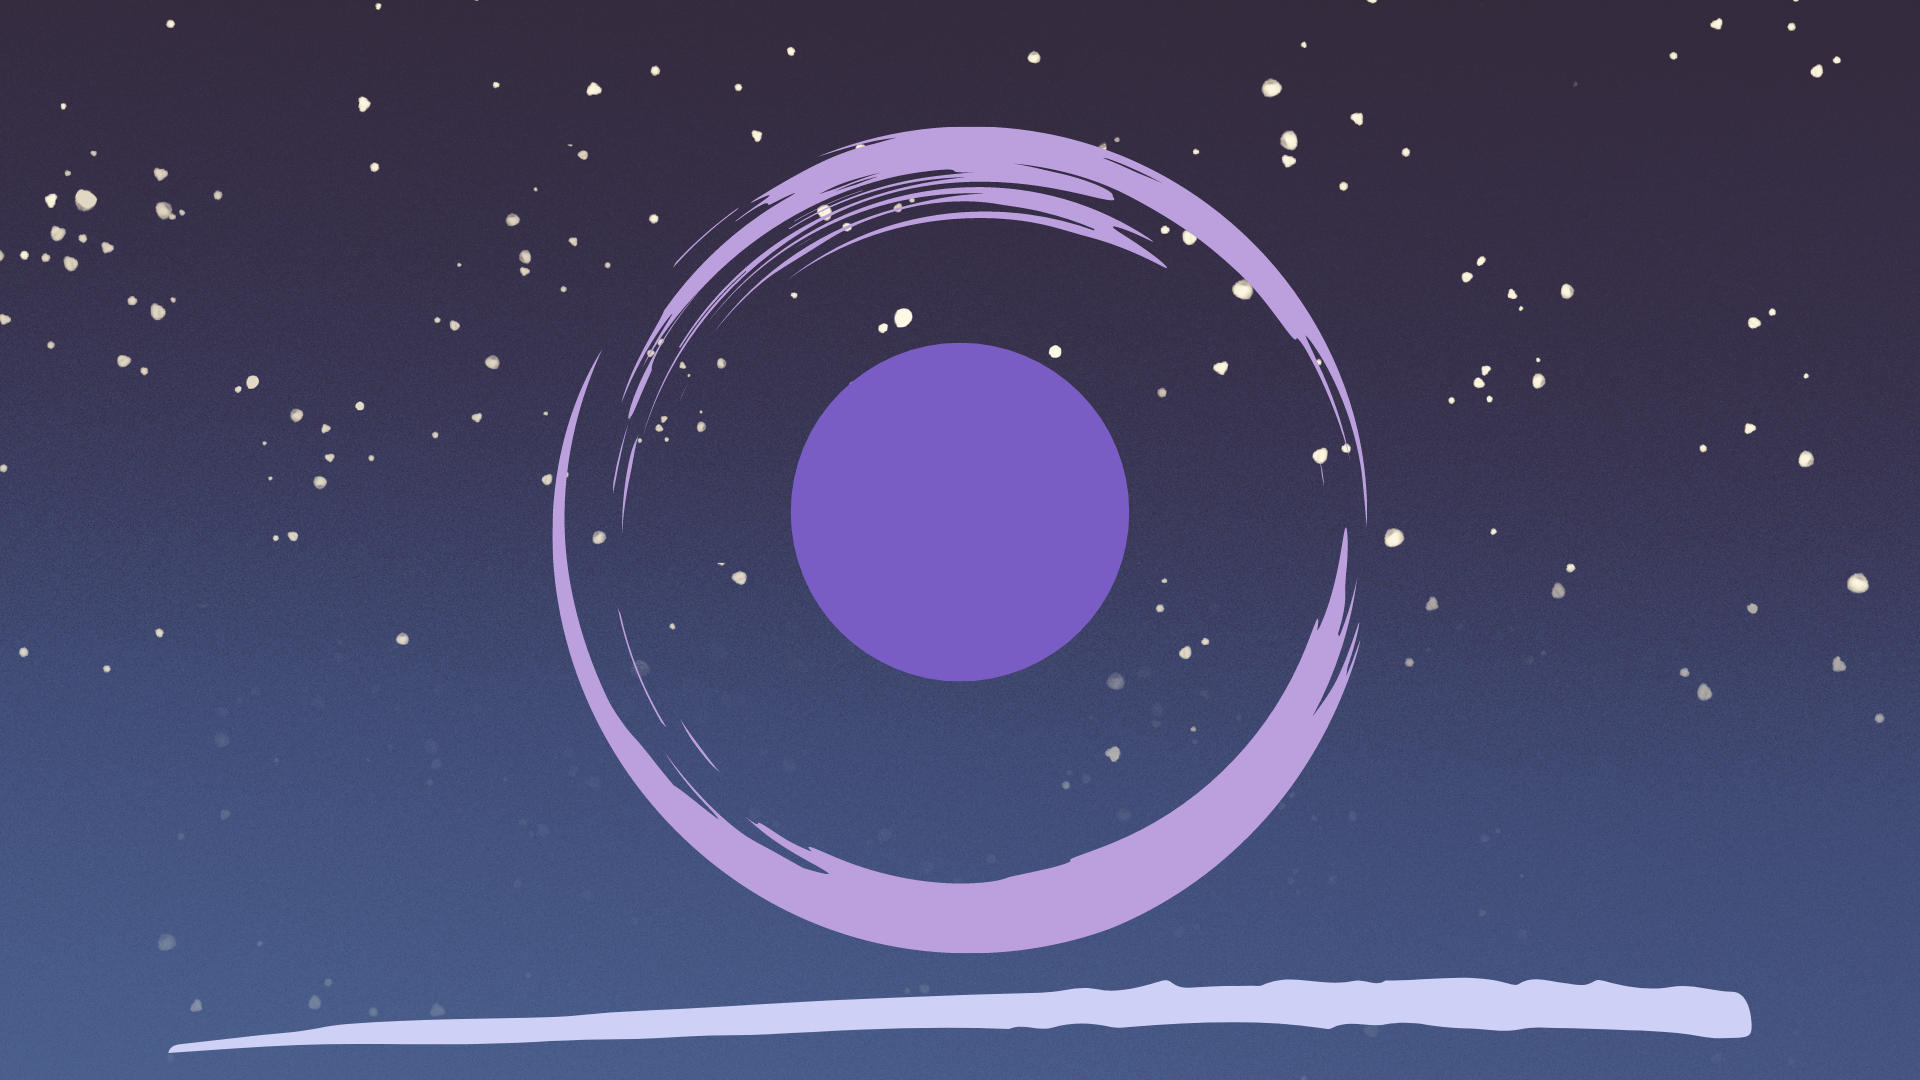
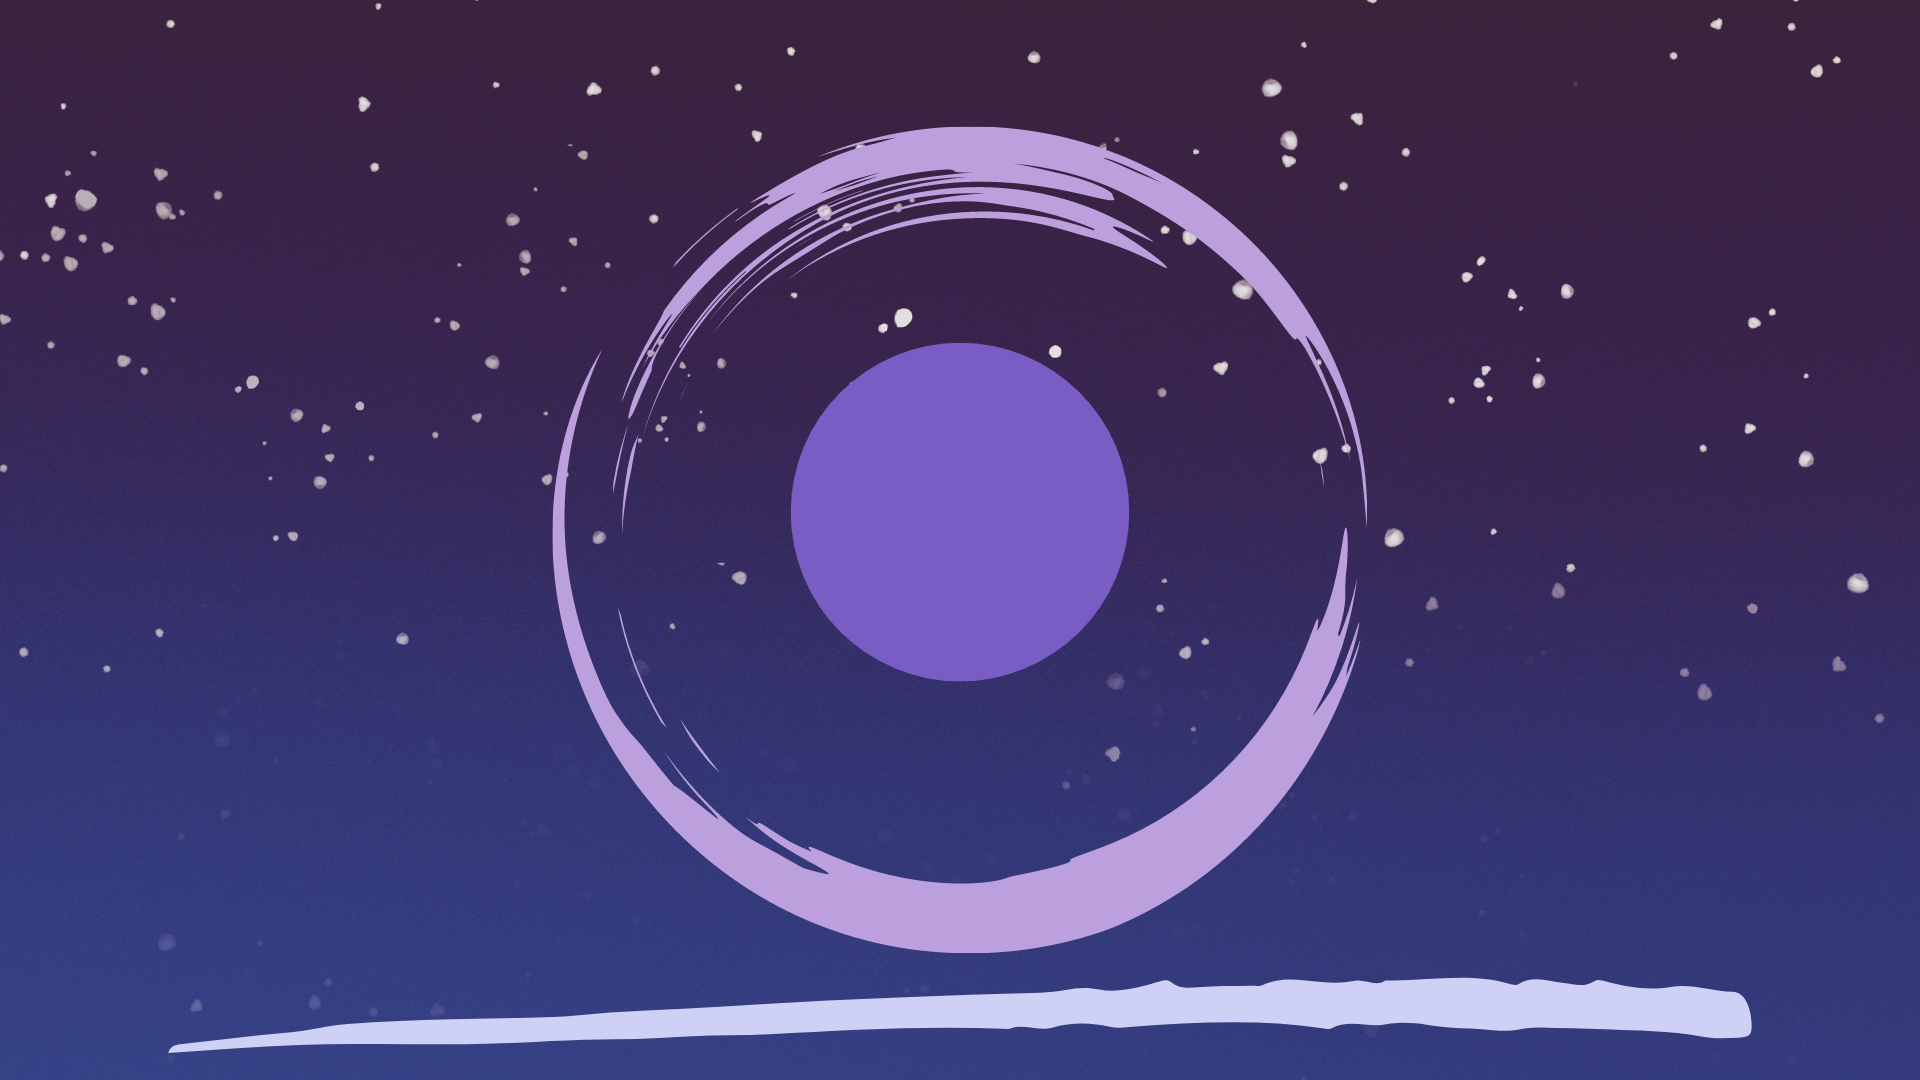
added navbar for landing page form

diff --git a/application/client/src/pages/Landing.js b/application/client/src/pages/Landing.js
@@ -1,15 +1,35 @@
-import "../styles/Landing.css"
+import { useState } from 'react';
 
 const Landing = () => {
+    const [selected, setSelected] = useState('Sign In');
+
     return (
         <div className="flex items-center justify-center h-screen">
             <div className="bg-white w-[30vw] h-[80vh] shadow-2xl rounded-lg flex flex-col p-[20px]">
-                {/* navbar to switch from sign in and sign up*/}
+                {/* Navbar to switch from sign in and sign up */}
                 <div className="flex justify-center mt-4">
-                    <div className="w-[40%] bg-blue-500 text-white flex rounded-full overflow-hidden">
-                        <div>Sign In</div>
-                        <div>Sign Up</div>
+                    <div className="relative w-[70%] bg-neutral text-white flex rounded-full overflow-hidden">
+                        <div
+                            className={`flex-1 py-2 text-center cursor-pointer ${selected === 'Sign In' ? 'bg-[#7A4DC4]' : 'hover:bg-secondary'}`}
+                            onClick={() => setSelected('Sign In')}
+                        >
+                            Sign In
+                        </div>
+                        <div className="absolute inset-0 m-auto w-10 h-10 bg-[#7A4DC4] rounded-full"></div>
+                        <div
+                            className={`flex-1 py-2 text-center cursor-pointer ${selected === 'Sign Up' ? 'bg-[#7A4DC4]' : 'hover:bg-secondary'}`}
+                            onClick={() => setSelected('Sign Up')}
+                        >
+                            Sign Up
+                        </div>
                     </div>
+                </div>
+                <div className="flex-1 mt-4">
+                    {selected === 'Sign In' ? (
+                        <div> {/* Sign In form goes here */}Sign In </div>
+                    ) : (
+                        <div> {/* Sign Up form goes here */}Sign Up </div>
+                    )}
                 </div>
             </div>
         </div>

diff --git a/application/client/public/index.html b/application/client/public/index.html
@@ -10,34 +10,14 @@
       content="Web site created using create-react-app"
     />
     <link rel="apple-touch-icon" href="%PUBLIC_URL%/logo192.png" />
-    <!--
-      manifest.json provides metadata used when your web app is installed on a
-      user's mobile device or desktop. See https://developers.google.com/web/fundamentals/web-app-manifest/
-    -->
     <link rel="manifest" href="%PUBLIC_URL%/manifest.json" />
-    <!--
-      Notice the use of %PUBLIC_URL% in the tags above.
-      It will be replaced with the URL of the `public` folder during the build.
-      Only files inside the `public` folder can be referenced from the HTML.
-
-      Unlike "/favicon.ico" or "favicon.ico", "%PUBLIC_URL%/favicon.ico" will
-      work correctly both with client-side routing and a non-root public URL.
-      Learn how to configure a non-root public URL by running `npm run build`.
-    -->
+    <link rel="preconnect" href="https://fonts.googleapis.com">
+    <link rel="preconnect" href="https://fonts.gstatic.com" crossorigin>
+    <link href="https://fonts.googleapis.com/css2?family=Open+Sans:ital,wght@0,300..800;1,300..800&display=swap" rel="stylesheet">
     <title>React App</title>
   </head>
   <body>
     <noscript>You need to enable JavaScript to run this app.</noscript>
     <div id="root"></div>
-    <!--
-      This HTML file is a template.
-      If you open it directly in the browser, you will see an empty page.
-
-      You can add webfonts, meta tags, or analytics to this file.
-      The build step will place the bundled scripts into the <body> tag.
-
-      To begin the development, run `npm start` or `yarn start`.
-      To create a production bundle, use `npm run build` or `yarn build`.
-    -->
   </body>
 </html>

diff --git a/application/client/tailwind.config.js b/application/client/tailwind.config.js
@@ -4,7 +4,37 @@ module.exports = {
     "./src/**/*.{js,jsx,ts,tsx}",
   ],
   theme: {
-    extend: {},
+    extend: {
+      fontFamily: {
+        sans: ['Open Sans', 'sans-serif'],
+      },
+    },
+  },
+  daisyui: {
+    themes: [
+      {
+        mytheme: {
+          
+          "primary": "#7A4DC4",
+                    
+          "secondary": "#9876d1",
+                    
+          "accent": "#f3f3f3",
+                    
+          "neutral": "#c8c8c8",
+                    
+          "base-100": "#FFFFFF",
+                    
+          "info": "#000000",
+                    
+          "success": "#34d399",
+                    
+          "warning": "#e11d48",
+                    
+          "error": "#ff0000",
+        },
+      },
+    ],
   },
   plugins: [
     require('daisyui')

diff --git a/application/client/src/App.css b/application/client/src/App.css
@@ -19,8 +19,6 @@ body {
   background-image: url('./images/background.png');
   background-size: cover;
   background-position: center;
-  background-color: rgba(255, 255, 255, 0.2); /* White color with 50% transparency */
-  background-blend-mode: overlay;
   z-index: -1;
 }
 

diff --git a/application/client/src/index.css b/application/client/src/index.css
@@ -1,3 +1,7 @@
 @tailwind base;
 @tailwind components;
 @tailwind utilities; 
+
+body {
+  @apply font-sans;
+}
